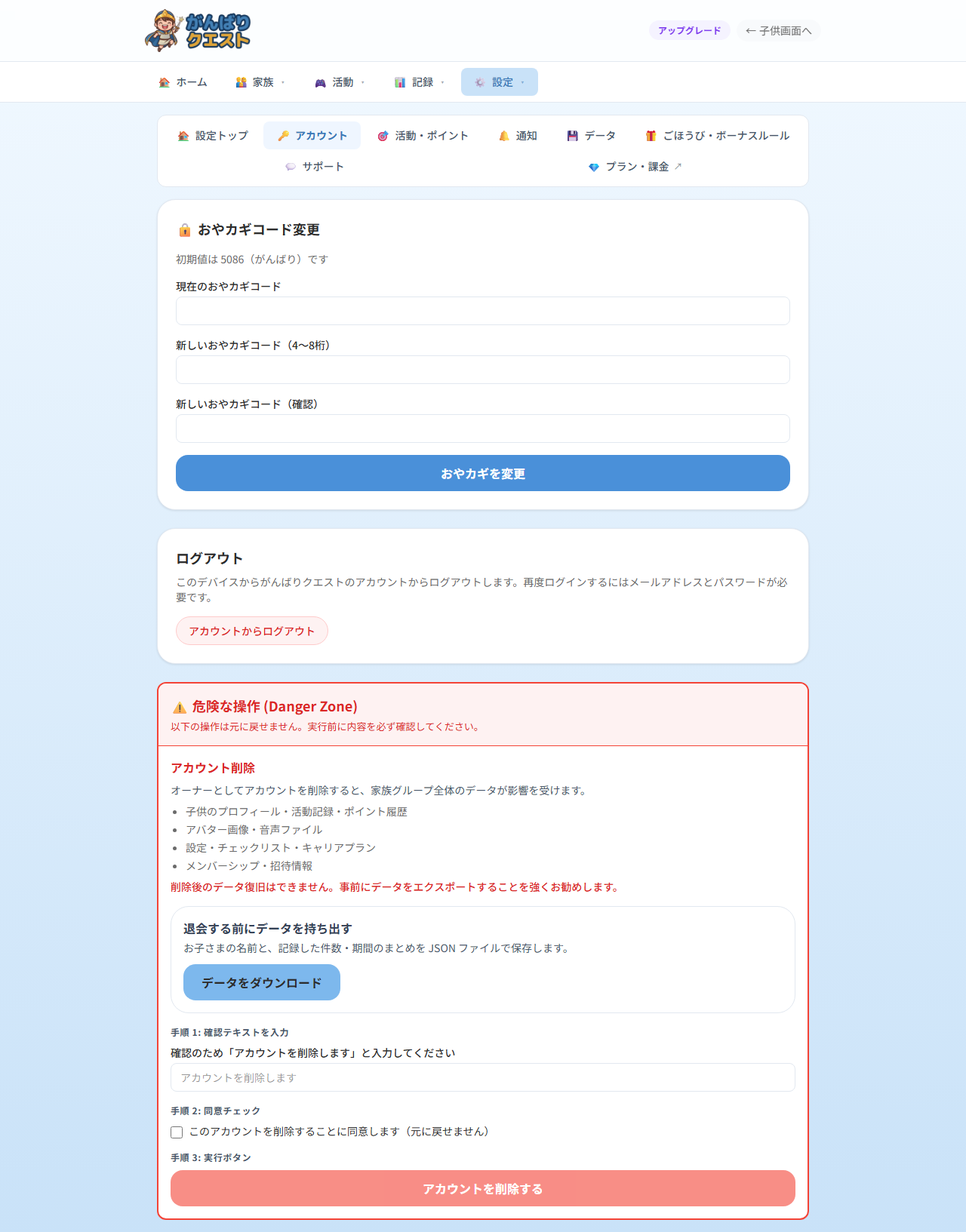
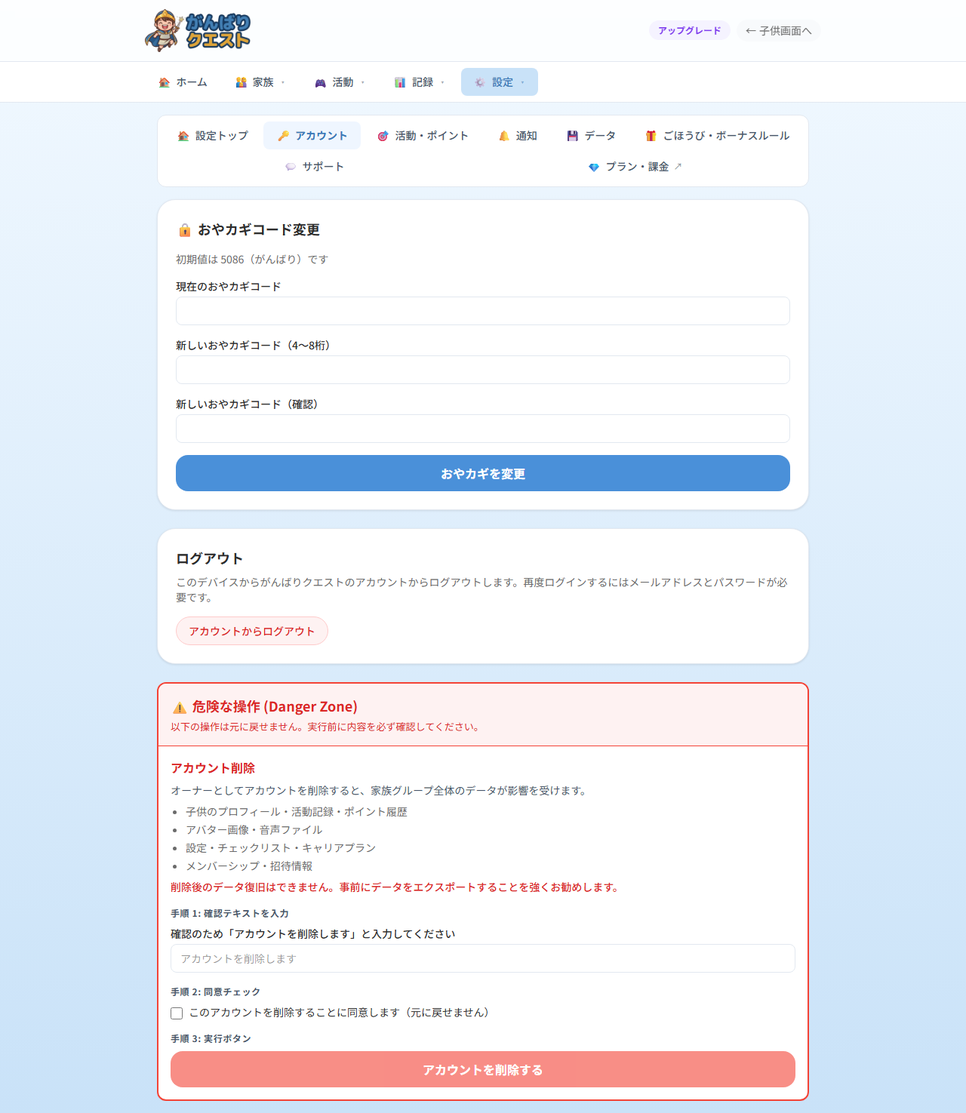
screenshots: PR #4475 (2026-08-08)

diff --git a/pr-4475/admin-settings-account-mobile.dom.html b/pr-4475/admin-settings-account-mobile.dom.html
@@ -5244,7 +5244,7 @@ h1, h2, h3, h4 {
  .svelte-pwdxgn{}</style>
 	</head>
 	<body data-sveltekit-preload-data="hover">
-		<div style="display: contents"><!--[--><!--[0--><!--[--><!--[-1--><!--]--><!----> <!--[-1--><!--]--><!----> <!--[-1--><!--]--><!----> <!--[0--><!--[--><div data-theme="admin" data-plan="free" class="admin-shell svelte-wncecx"><header class="admin-header sticky top-0 z-30 backdrop-blur border-b border-[var(--color-border-default)] px-4 py-3 svelte-wncecx"><div class="max-w-4xl mx-auto flex items-center justify-between svelte-wncecx"><div class="flex items-center gap-2 svelte-wncecx"><a href="/admin" class="flex items-center svelte-wncecx"><span class="hidden md:inline-flex svelte-wncecx"><span class="logo-wrapper  svelte-1n7r250"><img src="/logo-compact.png" alt="がんばりクエスト" width="140" height="57" class="logo svelte-1n7r250"> <!--[-1--><!--]--></span><!----></span> <span class="inline-flex md:hidden svelte-wncecx"><span class="logo-wrapper  svelte-1n7r250"><img src="/icon-character.png" alt="がんばりクエスト" width="44" height="44" class="logo svelte-1n7r250"> <!--[-1--><!--]--></span><!----></span></a> <!--[-1--><!--]--></div> <div class="flex items-center gap-2 svelte-wncecx"><!--[-1--><!--]--> <!--[0--><a href="/admin/subscription" class="upgrade-btn svelte-wncecx" data-tutorial="upgrade-btn">アップグレード</a><!--]--> <!--[-1--><!--]--> <a href="/switch" class="header-switch-link svelte-wncecx" data-tutorial="switch-to-child"><span aria-hidden="true" class="svelte-wncecx">←</span> 子供画面へ</a></div></div></header> <nav class="hidden md:block bg-[var(--color-surface-card)] border-b border-[var(--color-border-default)] px-4 py-2 svelte-wncecx" aria-label="管理メニュー" data-tutorial="nav-desktop"><div class="max-w-4xl mx-auto flex gap-1 svelte-wncecx"><a href="/admin" class="nav-item  svelte-wncecx"><span aria-hidden="true" class="svelte-wncecx">🏠</span> ホーム</a> <!--[--><div class="relative svelte-wncecx" role="none"><button type="button" class="nav-item  svelte-wncecx" aria-expanded="false" aria-haspopup="true"><span aria-hidden="true" class="svelte-wncecx">👨👩👧</span> 家族 <span class="text-[10px] ml-0.5 opacity-50 svelte-wncecx" aria-hidden="true">▾</span></button> <!--[-1--><!--]--></div><div class="relative svelte-wncecx" role="none"><button type="button" class="nav-item  svelte-wncecx" aria-expanded="false" aria-haspopup="true"><span aria-hidden="true" class="svelte-wncecx">🎮</span> 活動 <span class="text-[10px] ml-0.5 opacity-50 svelte-wncecx" aria-hidden="true">▾</span></button> <!--[-1--><!--]--></div><div class="relative svelte-wncecx" role="none"><button type="button" class="nav-item  svelte-wncecx" aria-expanded="false" aria-haspopup="true"><span aria-hidden="true" class="svelte-wncecx">📊</span> 記録 <span class="text-[10px] ml-0.5 opacity-50 svelte-wncecx" aria-hidden="true">▾</span></button> <!--[-1--><!--]--></div><div class="relative svelte-wncecx" role="none"><button type="button" class="nav-item nav-item--active svelte-wncecx" aria-expanded="false" aria-haspopup="true"><span aria-hidden="true" class="svelte-wncecx">⚙</span> 設定 <span class="text-[10px] ml-0.5 opacity-50 svelte-wncecx" aria-hidden="true">▾</span></button> <!--[-1--><!--]--></div><!--]--></div></nav> <main class="max-w-4xl mx-auto p-4 pb-24 md:pb-4 svelte-wncecx"><!--[-1--><!--[-1--><!--]--> <!--[-1--><!--]--> <!--[-1--><!--]--> <!--[0--><!--[--><nav class="settings-subnav svelte-2jrpmj" aria-label="設定サブナビゲーション" data-testid="settings-subnav"><ul class="settings-subnav__list svelte-2jrpmj"><!--[--><li class="settings-subnav__item svelte-2jrpmj"><a href="/admin/settings" class="settings-subnav__link svelte-2jrpmj" data-testid="settings-subnav-設定トップ"><span aria-hidden="true" class="svelte-2jrpmj">🏠</span> <span class="settings-subnav__label svelte-2jrpmj">設定トップ</span> <!--[-1--><!--]--></a></li><li class="settings-subnav__item svelte-2jrpmj"><a href="/admin/settings/account" class="settings-subnav__link svelte-2jrpmj settings-subnav__link--active" aria-current="page" data-testid="settings-subnav-アカウント"><span aria-hidden="true" class="svelte-2jrpmj">🔑</span> <span class="settings-subnav__label svelte-2jrpmj">アカウント</span> <!--[-1--><!--]--></a></li><li class="settings-subnav__item svelte-2jrpmj"><a href="/admin/settings/activities" class="settings-subnav__link svelte-2jrpmj" data-testid="settings-subnav-活動・ポイント"><span aria-hidden="true" class="svelte-2jrpmj">🎯</span> <span class="settings-subnav__label svelte-2jrpmj">活動・ポイント</span> <!--[-1--><!--]--></a></li><li class="settings-subnav__item svelte-2jrpmj"><a href="/admin/settings/notifications" class="settings-subnav__link svelte-2jrpmj" data-testid="settings-subnav-通知"><span aria-hidden="true" class="svelte-2jrpmj">🔔</span> <span class="settings-subnav__label svelte-2jrpmj">通知</span> <!--[-1--><!--]--></a></li><li class="settings-subnav__item svelte-2jrpmj"><a href="/admin/settings/data" class="settings-subnav__link svelte-2jrpmj" data-testid="settings-subnav-データ"><span aria-hidden="true" class="svelte-2jrpmj">💾</span> <span class="settings-subnav__label svelte-2jrpmj">データ</span> <!--[-1--><!--]--></a></li><li class="settings-subnav__item svelte-2jrpmj"><a href="/admin/settings/rules" class="settings-subnav__link svelte-2jrpmj" data-testid="settings-subnav-ごほうび・ボーナスルール"><span aria-hidden="true" class="svelte-2jrpmj">🎁</span> <span class="settings-subnav__label svelte-2jrpmj">ごほうび・ボーナスルール</span> <!--[-1--><!--]--></a></li><li class="settings-subnav__item svelte-2jrpmj"><a href="/admin/settings/support" class="settings-subnav__link svelte-2jrpmj" data-testid="settings-subnav-サポート"><span aria-hidden="true" class="svelte-2jrpmj">💬</span> <span class="settings-subnav__label svelte-2jrpmj">サポート</span> <!--[-1--><!--]--></a></li><li class="settings-subnav__item svelte-2jrpmj"><a href="/admin/subscription" class="settings-subnav__link svelte-2jrpmj" data-testid="settings-subnav-プラン・課金"><span aria-hidden="true" class="svelte-2jrpmj">💎</span> <span class="settings-subnav__label svelte-2jrpmj">プラン・課金</span> <!--[0--><span class="settings-subnav__external svelte-2jrpmj" aria-label="別ページ">↗</span><!--]--></a></li><!--]--></ul></nav> <div class="settings-content svelte-2jrpmj"><!--[--><div class="space-y-6 svelte-vx7jxi"><!--[-1--><!--]--> <section class="rounded-[var(--card-radius)] overflow-hidden bg-[var(--card-bg)] shadow-[var(--card-shadow)] border border-[var(--color-border-default)] " data-tutorial="pin-settings"><!--[-1--><!--]--> <div class="p-6"><h3 class="text-lg font-bold text-[var(--color-text)] mb-4 svelte-vx7jxi">🔒 おやカギコード変更</h3> <p class="text-sm text-[var(--color-text-muted)] mb-4 svelte-vx7jxi">初期値は 5086（がんばり）です</p> <!--[-1--><!--]--> <!--[-1--><!--]--> <form method="POST" action="?/changePin" class="flex flex-col gap-4 svelte-vx7jxi"><div class="flex flex-col gap-1  svelte-pwdxgn"><label for="currentPin" class="text-sm font-medium text-[var(--color-text)] svelte-pwdxgn">現在のおやカギコード</label> <!--[-1--><div class="relative svelte-pwdxgn"><input type="password" id="currentPin" class="w-full px-3 py-2 border rounded-[var(--input-radius)] bg-[var(--input-bg)] text-sm border-[var(--input-border)] focus:border-[var(--input-border-focus)] focus:outline-none focus:ring-2 focus:ring-opacity-30 transition-colors  svelte-pwdxgn" name="currentPin" required="" style=""> <!--[-1--><!--]--></div><!--]--> <!--[-1--><!--]--></div><!----> <div class="flex flex-col gap-1  svelte-pwdxgn"><label for="newPin" class="text-sm font-medium text-[var(--color-text)] svelte-pwdxgn">新しいおやカギコード（4〜8桁）</label> <!--[-1--><div class="relative svelte-pwdxgn"><input type="password" id="newPin" class="w-full px-3 py-2 border rounded-[var(--input-radius)] bg-[var(--input-bg)] text-sm border-[var(--input-border)] focus:border-[var(--input-border-focus)] focus:outline-none focus:ring-2 focus:ring-opacity-30 transition-colors  svelte-pwdxgn" name="newPin" required="" style=""> <!--[-1--><!--]--></div><!--]--> <!--[-1--><!--]--></div><!----> <div class="flex flex-col gap-1  svelte-pwdxgn"><label for="confirmPin" class="text-sm font-medium text-[var(--color-text)] svelte-pwdxgn">新しいおやカギコード（確認）</label> <!--[-1--><div class="relative svelte-pwdxgn"><input type="password" id="confirmPin" class="w-full px-3 py-2 border rounded-[var(--input-radius)] bg-[var(--input-bg)] text-sm border-[var(--input-border)] focus:border-[var(--input-border-focus)] focus:outline-none focus:ring-2 focus:ring-opacity-30 transition-colors  svelte-pwdxgn" name="confirmPin" required="" style=""> <!--[-1--><!--]--></div><!--]--> <!--[-1--><!--]--></div><!----> <!--[-1--><button class="tap-target inline-flex items-center justify-center gap-2 font-bold transition-all disabled:opacity-60 disabled:cursor-not-allowed bg-[var(--theme-primary)] text-white hover:brightness-90 active:brightness-80 px-6 py-3 text-md rounded-[var(--radius-md)] min-h-12 w-full" aria-busy="false" type="submit"><!--[-1--><!--]--><!---->おやカギを変更<!----></button><!--]--><!----></form><!----></div> <!--[-1--><!--]--></section><!----> <!--[0--><section class="rounded-[var(--card-radius)] overflow-hidden bg-[var(--card-bg)] shadow-[var(--card-shadow)] border border-[var(--color-border-default)] "><!--[-1--><!--]--> <div class="p-6"><h3 class="text-lg font-bold text-[var(--color-text)] mb-2 svelte-vx7jxi">ログアウト</h3> <p class="text-sm text-[var(--color-text-muted)] mb-4 svelte-vx7jxi">このデバイスからがんばりクエストのアカウントからログアウトします。再度ログインするにはメールアドレスとパスワードが必要です。</p> <a href="/auth/signout" class="inline-block px-4 py-2 bg-[var(--color-feedback-error-bg)] text-[var(--color-feedback-error-text)] text-sm font-medium rounded-lg border border-[var(--color-feedback-error-border)] hover:bg-[var(--color-feedback-error-bg-strong)] transition-colors no-underline svelte-vx7jxi" data-testid="account-logout-link">アカウントからログアウト</a><!----></div> <!--[-1--><!--]--></section><!----><!--]--> <!--[0--><section class="danger-zone svelte-vx7jxi" data-testid="account-danger-zone"><header class="danger-zone__header svelte-vx7jxi"><h3 class="danger-zone__title svelte-vx7jxi">⚠ 危険な操作 (Danger Zone)</h3> <p class="danger-zone__desc svelte-vx7jxi">以下の操作は元に戻せません。実行前に内容を必ず確認してください。</p></header> <div class="danger-zone__body svelte-vx7jxi"><h4 class="text-base font-bold text-[var(--color-feedback-error-text)] mb-2 svelte-vx7jxi">アカウント削除</h4> <!--[0--><div class="text-sm text-[var(--color-text-secondary)] space-y-2 mb-4 svelte-vx7jxi"><p class="svelte-vx7jxi">オーナーとしてアカウントを削除すると、家族グループ全体のデータが影響を受けます。</p> <ul class="list-disc ml-5 text-[var(--color-text-muted)] space-y-1 svelte-vx7jxi"><li class="svelte-vx7jxi">子供のプロフィール・活動記録・ポイント履歴</li> <li class="svelte-vx7jxi">アバター画像・音声ファイル</li> <li class="svelte-vx7jxi">設定・チェックリスト・キャリアプラン</li> <li class="svelte-vx7jxi">メンバーシップ・招待情報</li></ul> <p class="text-[var(--color-feedback-error-text)] font-medium svelte-vx7jxi">削除後のデータ復旧はできません。事前にデータをエクスポートすることを強くお勧めします。</p></div><!--]--> <!--[0--><div class="mb-4 rounded-lg border border-[var(--color-border-default)] bg-[var(--color-surface-card)] p-4" data-testid="account-deletion-export"><h4 class="mb-1 text-base font-bold text-[var(--color-text-primary)]">退会する前にデータを持ち出す</h4> <p class="mb-3 text-sm text-[var(--color-text-secondary)]" data-testid="account-deletion-export-scope">お子さまの名前と、記録した件数・期間のまとめを JSON ファイルで保存します。</p> <!--[-1--><!--]--> <!--[-1--><!--]--> <!--[-1--><button class="tap-target inline-flex items-center justify-center gap-2 font-bold transition-all disabled:opacity-60 disabled:cursor-not-allowed bg-[var(--theme-secondary)] text-[var(--color-text)] hover:brightness-95 active:brightness-90 px-6 py-3 text-md rounded-[var(--radius-md)] min-h-12 " aria-busy="false" type="button" data-testid="account-deletion-export-button"><!--[-1--><!--]--><!---->データをダウンロード<!----></button><!--]--><!----></div><!----><!--]--> <!--[-1--><!--]--> <!--[-1--><div class="danger-zone__step svelte-vx7jxi"><p class="danger-zone__step-label svelte-vx7jxi">手順 1: 確認テキストを入力</p> <div class="flex flex-col gap-1  svelte-pwdxgn"><label for="deleteConfirm" class="text-sm font-medium text-[var(--color-text)] svelte-pwdxgn">確認のため「アカウントを削除します」と入力してください</label> <!--[-1--><div class="relative svelte-pwdxgn"><input type="text" id="deleteConfirm" value="" class="w-full px-3 py-2 border rounded-[var(--input-radius)] bg-[var(--input-bg)] text-sm border-[var(--input-border)] focus:border-[var(--input-border-focus)] focus:outline-none focus:ring-2 focus:ring-opacity-30 transition-colors  svelte-pwdxgn" placeholder="アカウントを削除します" style=""> <!--[-1--><!--]--></div><!--]--> <!--[-1--><!--]--></div><!----></div> <div class="danger-zone__step svelte-vx7jxi"><p class="danger-zone__step-label svelte-vx7jxi">手順 2: 同意チェック</p> <label class="flex items-start gap-2 cursor-pointer svelte-vx7jxi"><input type="checkbox" class="mt-1 h-4 w-4 rounded border-[var(--color-border-strong)] svelte-vx7jxi" data-testid="account-danger-agree-checkbox" style=""> <span class="text-sm text-[var(--color-text)] svelte-vx7jxi">このアカウントを削除することに同意します（元に戻せません）</span></label></div> <div class="danger-zone__step svelte-vx7jxi"><p class="danger-zone__step-label svelte-vx7jxi">手順 3: 実行ボタン</p> <!--[-1--><button class="tap-target inline-flex items-center justify-center gap-2 font-bold transition-all disabled:opacity-60 disabled:cursor-not-allowed bg-[var(--color-danger)] text-white hover:brightness-90 active:brightness-80 px-6 py-3 text-md rounded-[var(--radius-md)] min-h-12 w-full" disabled="" aria-busy="false" type="button" data-testid="account-danger-execute-button"><!--[-1--><!--]--><!---->アカウントを削除する<!----></button><!--]--><!----></div><!--]--></div></section><!--]--></div><!--]--><!----></div><!--]--><!--]--><!----><!----><!--]--></main> <nav class="md:hidden fixed bottom-0 left-0 right-0 z-30 bg-[var(--color-surface-card)] border-t border-[var(--color-border-default)] safe-area-bottom svelte-wncecx" aria-label="メインナビゲーション" data-tutorial="nav-primary"><!--[-1--><!--]--> <div class="flex justify-around items-center h-16 svelte-wncecx"><a href="/admin" class="mobile-nav-item  svelte-wncecx"><span class="text-xl svelte-wncecx" aria-hidden="true">🏠</span> <span class="text-[10px] font-medium leading-none svelte-wncecx">ホーム</span></a> <!--[--><button type="button" class="mobile-nav-item   svelte-wncecx" aria-expanded="false" aria-haspopup="true"><span class="text-xl svelte-wncecx" aria-hidden="true">👨👩👧</span> <span class="text-[10px] font-medium leading-none svelte-wncecx">家族</span></button><button type="button" class="mobile-nav-item   svelte-wncecx" aria-expanded="false" aria-haspopup="true"><span class="text-xl svelte-wncecx" aria-hidden="true">🎮</span> <span class="text-[10px] font-medium leading-none svelte-wncecx">活動</span></button><button type="button" class="mobile-nav-item   svelte-wncecx" aria-expanded="false" aria-haspopup="true"><span class="text-xl svelte-wncecx" aria-hidden="true">📊</span> <span class="text-[10px] font-medium leading-none svelte-wncecx">記録</span></button><button type="button" class="mobile-nav-item mobile-nav-item--active  svelte-wncecx" aria-expanded="false" aria-haspopup="true"><span class="text-xl svelte-wncecx" aria-hidden="true">⚙</span> <span class="text-[10px] font-medium leading-none svelte-wncecx">設定</span></button><!--]--></div></nav> <!--[0--><!--[--><!--$s1--><!--[-1--><!--]--><!----><!----><!--]--><!----> <!--[--><!--$s2--><!--[-1--><!--]--><!----><!----><!--]--><!----> <!--[--><!--$s3--><!--[-1--><!--]--><!----><!----><!--]--><!----><!----> <!--[-1--><!--]--><!----> <!----><!--]--></div><!----> <!--[--><!--$s4--><!--[-1--><!--]--><!----><!----><!--]--><!----><!----> <!--[-1--><!--]--><!----><!--]--><!--]--><!----> <!--[-1--><!--]--><!--]--><!--]--> <!--[-1--><!--]--><!--]-->
+		<div style="display: contents"><!--[--><!--[0--><!--[--><!--[-1--><!--]--><!----> <!--[-1--><!--]--><!----> <!--[-1--><!--]--><!----> <!--[0--><!--[--><div data-theme="admin" data-plan="free" class="admin-shell svelte-wncecx"><header class="admin-header sticky top-0 z-30 backdrop-blur border-b border-[var(--color-border-default)] px-4 py-3 svelte-wncecx"><div class="max-w-4xl mx-auto flex items-center justify-between svelte-wncecx"><div class="flex items-center gap-2 svelte-wncecx"><a href="/admin" class="flex items-center svelte-wncecx"><span class="hidden md:inline-flex svelte-wncecx"><span class="logo-wrapper  svelte-1n7r250"><img src="/logo-compact.png" alt="がんばりクエスト" width="140" height="57" class="logo svelte-1n7r250"> <!--[-1--><!--]--></span><!----></span> <span class="inline-flex md:hidden svelte-wncecx"><span class="logo-wrapper  svelte-1n7r250"><img src="/icon-character.png" alt="がんばりクエスト" width="44" height="44" class="logo svelte-1n7r250"> <!--[-1--><!--]--></span><!----></span></a> <!--[-1--><!--]--></div> <div class="flex items-center gap-2 svelte-wncecx"><!--[-1--><!--]--> <!--[0--><a href="/admin/subscription" class="upgrade-btn svelte-wncecx" data-tutorial="upgrade-btn">アップグレード</a><!--]--> <!--[-1--><!--]--> <a href="/switch" class="header-switch-link svelte-wncecx" data-tutorial="switch-to-child"><span aria-hidden="true" class="svelte-wncecx">←</span> 子供画面へ</a></div></div></header> <nav class="hidden md:block bg-[var(--color-surface-card)] border-b border-[var(--color-border-default)] px-4 py-2 svelte-wncecx" aria-label="管理メニュー" data-tutorial="nav-desktop"><div class="max-w-4xl mx-auto flex gap-1 svelte-wncecx"><a href="/admin" class="nav-item  svelte-wncecx"><span aria-hidden="true" class="svelte-wncecx">🏠</span> ホーム</a> <!--[--><div class="relative svelte-wncecx" role="none"><button type="button" class="nav-item  svelte-wncecx" aria-expanded="false" aria-haspopup="true"><span aria-hidden="true" class="svelte-wncecx">👨👩👧</span> 家族 <span class="text-[10px] ml-0.5 opacity-50 svelte-wncecx" aria-hidden="true">▾</span></button> <!--[-1--><!--]--></div><div class="relative svelte-wncecx" role="none"><button type="button" class="nav-item  svelte-wncecx" aria-expanded="false" aria-haspopup="true"><span aria-hidden="true" class="svelte-wncecx">🎮</span> 活動 <span class="text-[10px] ml-0.5 opacity-50 svelte-wncecx" aria-hidden="true">▾</span></button> <!--[-1--><!--]--></div><div class="relative svelte-wncecx" role="none"><button type="button" class="nav-item  svelte-wncecx" aria-expanded="false" aria-haspopup="true"><span aria-hidden="true" class="svelte-wncecx">📊</span> 記録 <span class="text-[10px] ml-0.5 opacity-50 svelte-wncecx" aria-hidden="true">▾</span></button> <!--[-1--><!--]--></div><div class="relative svelte-wncecx" role="none"><button type="button" class="nav-item nav-item--active svelte-wncecx" aria-expanded="false" aria-haspopup="true"><span aria-hidden="true" class="svelte-wncecx">⚙</span> 設定 <span class="text-[10px] ml-0.5 opacity-50 svelte-wncecx" aria-hidden="true">▾</span></button> <!--[-1--><!--]--></div><!--]--></div></nav> <main class="max-w-4xl mx-auto p-4 pb-24 md:pb-4 svelte-wncecx"><!--[-1--><!--[-1--><!--]--> <!--[-1--><!--]--> <!--[-1--><!--]--> <!--[0--><!--[--><nav class="settings-subnav svelte-2jrpmj" aria-label="設定サブナビゲーション" data-testid="settings-subnav"><ul class="settings-subnav__list svelte-2jrpmj"><!--[--><li class="settings-subnav__item svelte-2jrpmj"><a href="/admin/settings" class="settings-subnav__link svelte-2jrpmj" data-testid="settings-subnav-設定トップ"><span aria-hidden="true" class="svelte-2jrpmj">🏠</span> <span class="settings-subnav__label svelte-2jrpmj">設定トップ</span> <!--[-1--><!--]--></a></li><li class="settings-subnav__item svelte-2jrpmj"><a href="/admin/settings/account" class="settings-subnav__link svelte-2jrpmj settings-subnav__link--active" aria-current="page" data-testid="settings-subnav-アカウント"><span aria-hidden="true" class="svelte-2jrpmj">🔑</span> <span class="settings-subnav__label svelte-2jrpmj">アカウント</span> <!--[-1--><!--]--></a></li><li class="settings-subnav__item svelte-2jrpmj"><a href="/admin/settings/activities" class="settings-subnav__link svelte-2jrpmj" data-testid="settings-subnav-活動・ポイント"><span aria-hidden="true" class="svelte-2jrpmj">🎯</span> <span class="settings-subnav__label svelte-2jrpmj">活動・ポイント</span> <!--[-1--><!--]--></a></li><li class="settings-subnav__item svelte-2jrpmj"><a href="/admin/settings/notifications" class="settings-subnav__link svelte-2jrpmj" data-testid="settings-subnav-通知"><span aria-hidden="true" class="svelte-2jrpmj">🔔</span> <span class="settings-subnav__label svelte-2jrpmj">通知</span> <!--[-1--><!--]--></a></li><li class="settings-subnav__item svelte-2jrpmj"><a href="/admin/settings/data" class="settings-subnav__link svelte-2jrpmj" data-testid="settings-subnav-データ"><span aria-hidden="true" class="svelte-2jrpmj">💾</span> <span class="settings-subnav__label svelte-2jrpmj">データ</span> <!--[-1--><!--]--></a></li><li class="settings-subnav__item svelte-2jrpmj"><a href="/admin/settings/rules" class="settings-subnav__link svelte-2jrpmj" data-testid="settings-subnav-ごほうび・ボーナスルール"><span aria-hidden="true" class="svelte-2jrpmj">🎁</span> <span class="settings-subnav__label svelte-2jrpmj">ごほうび・ボーナスルール</span> <!--[-1--><!--]--></a></li><li class="settings-subnav__item svelte-2jrpmj"><a href="/admin/settings/support" class="settings-subnav__link svelte-2jrpmj" data-testid="settings-subnav-サポート"><span aria-hidden="true" class="svelte-2jrpmj">💬</span> <span class="settings-subnav__label svelte-2jrpmj">サポート</span> <!--[-1--><!--]--></a></li><li class="settings-subnav__item svelte-2jrpmj"><a href="/admin/subscription" class="settings-subnav__link svelte-2jrpmj" data-testid="settings-subnav-プラン・課金"><span aria-hidden="true" class="svelte-2jrpmj">💎</span> <span class="settings-subnav__label svelte-2jrpmj">プラン・課金</span> <!--[0--><span class="settings-subnav__external svelte-2jrpmj" aria-label="別ページ">↗</span><!--]--></a></li><!--]--></ul></nav> <div class="settings-content svelte-2jrpmj"><!--[--><div class="space-y-6 svelte-vx7jxi"><!--[-1--><!--]--> <section class="rounded-[var(--card-radius)] overflow-hidden bg-[var(--card-bg)] shadow-[var(--card-shadow)] border border-[var(--color-border-default)] " data-tutorial="pin-settings"><!--[-1--><!--]--> <div class="p-6"><h3 class="text-lg font-bold text-[var(--color-text)] mb-4 svelte-vx7jxi">🔒 おやカギコード変更</h3> <p class="text-sm text-[var(--color-text-muted)] mb-4 svelte-vx7jxi">初期値は 5086（がんばり）です</p> <!--[-1--><!--]--> <!--[-1--><!--]--> <form method="POST" action="?/changePin" class="flex flex-col gap-4 svelte-vx7jxi"><div class="flex flex-col gap-1  svelte-pwdxgn"><label for="currentPin" class="text-sm font-medium text-[var(--color-text)] svelte-pwdxgn">現在のおやカギコード</label> <!--[-1--><div class="relative svelte-pwdxgn"><input type="password" id="currentPin" class="w-full px-3 py-2 border rounded-[var(--input-radius)] bg-[var(--input-bg)] text-sm border-[var(--input-border)] focus:border-[var(--input-border-focus)] focus:outline-none focus:ring-2 focus:ring-opacity-30 transition-colors  svelte-pwdxgn" name="currentPin" required="" style=""> <!--[-1--><!--]--></div><!--]--> <!--[-1--><!--]--></div><!----> <div class="flex flex-col gap-1  svelte-pwdxgn"><label for="newPin" class="text-sm font-medium text-[var(--color-text)] svelte-pwdxgn">新しいおやカギコード（4〜8桁）</label> <!--[-1--><div class="relative svelte-pwdxgn"><input type="password" id="newPin" class="w-full px-3 py-2 border rounded-[var(--input-radius)] bg-[var(--input-bg)] text-sm border-[var(--input-border)] focus:border-[var(--input-border-focus)] focus:outline-none focus:ring-2 focus:ring-opacity-30 transition-colors  svelte-pwdxgn" name="newPin" required="" style=""> <!--[-1--><!--]--></div><!--]--> <!--[-1--><!--]--></div><!----> <div class="flex flex-col gap-1  svelte-pwdxgn"><label for="confirmPin" class="text-sm font-medium text-[var(--color-text)] svelte-pwdxgn">新しいおやカギコード（確認）</label> <!--[-1--><div class="relative svelte-pwdxgn"><input type="password" id="confirmPin" class="w-full px-3 py-2 border rounded-[var(--input-radius)] bg-[var(--input-bg)] text-sm border-[var(--input-border)] focus:border-[var(--input-border-focus)] focus:outline-none focus:ring-2 focus:ring-opacity-30 transition-colors  svelte-pwdxgn" name="confirmPin" required="" style=""> <!--[-1--><!--]--></div><!--]--> <!--[-1--><!--]--></div><!----> <!--[-1--><button class="tap-target inline-flex items-center justify-center gap-2 font-bold transition-all disabled:opacity-60 disabled:cursor-not-allowed bg-[var(--theme-primary)] text-white hover:brightness-90 active:brightness-80 px-6 py-3 text-md rounded-[var(--radius-md)] min-h-12 w-full" aria-busy="false" type="submit"><!--[-1--><!--]--><!---->おやカギを変更<!----></button><!--]--><!----></form><!----></div> <!--[-1--><!--]--></section><!----> <!--[0--><section class="rounded-[var(--card-radius)] overflow-hidden bg-[var(--card-bg)] shadow-[var(--card-shadow)] border border-[var(--color-border-default)] "><!--[-1--><!--]--> <div class="p-6"><h3 class="text-lg font-bold text-[var(--color-text)] mb-2 svelte-vx7jxi">ログアウト</h3> <p class="text-sm text-[var(--color-text-muted)] mb-4 svelte-vx7jxi">このデバイスからがんばりクエストのアカウントからログアウトします。再度ログインするにはメールアドレスとパスワードが必要です。</p> <a href="/auth/signout" class="inline-block px-4 py-2 bg-[var(--color-feedback-error-bg)] text-[var(--color-feedback-error-text)] text-sm font-medium rounded-lg border border-[var(--color-feedback-error-border)] hover:bg-[var(--color-feedback-error-bg-strong)] transition-colors no-underline svelte-vx7jxi" data-testid="account-logout-link">アカウントからログアウト</a><!----></div> <!--[-1--><!--]--></section><!----><!--]--> <!--[0--><section class="danger-zone svelte-vx7jxi" data-testid="account-danger-zone"><header class="danger-zone__header svelte-vx7jxi"><h3 class="danger-zone__title svelte-vx7jxi">⚠ 危険な操作 (Danger Zone)</h3> <p class="danger-zone__desc svelte-vx7jxi">以下の操作は元に戻せません。実行前に内容を必ず確認してください。</p></header> <div class="danger-zone__body svelte-vx7jxi"><h4 class="text-base font-bold text-[var(--color-feedback-error-text)] mb-2 svelte-vx7jxi">アカウント削除</h4> <!--[0--><div class="text-sm text-[var(--color-text-secondary)] space-y-2 mb-4 svelte-vx7jxi"><p class="svelte-vx7jxi">オーナーとしてアカウントを削除すると、家族グループ全体のデータが影響を受けます。</p> <ul class="list-disc ml-5 text-[var(--color-text-muted)] space-y-1 svelte-vx7jxi"><li class="svelte-vx7jxi">子供のプロフィール・活動記録・ポイント履歴</li> <li class="svelte-vx7jxi">アバター画像・音声ファイル</li> <li class="svelte-vx7jxi">設定・チェックリスト・キャリアプラン</li> <li class="svelte-vx7jxi">メンバーシップ・招待情報</li></ul> <p class="text-[var(--color-feedback-error-text)] font-medium svelte-vx7jxi">削除後のデータ復旧はできません。事前にデータをエクスポートすることを強くお勧めします。</p></div><!--]--> <!--[-1--><!--]--> <!--[-1--><div class="danger-zone__step svelte-vx7jxi"><p class="danger-zone__step-label svelte-vx7jxi">手順 1: 確認テキストを入力</p> <div class="flex flex-col gap-1  svelte-pwdxgn"><label for="deleteConfirm" class="text-sm font-medium text-[var(--color-text)] svelte-pwdxgn">確認のため「アカウントを削除します」と入力してください</label> <!--[-1--><div class="relative svelte-pwdxgn"><input type="text" id="deleteConfirm" value="" class="w-full px-3 py-2 border rounded-[var(--input-radius)] bg-[var(--input-bg)] text-sm border-[var(--input-border)] focus:border-[var(--input-border-focus)] focus:outline-none focus:ring-2 focus:ring-opacity-30 transition-colors  svelte-pwdxgn" placeholder="アカウントを削除します" style=""> <!--[-1--><!--]--></div><!--]--> <!--[-1--><!--]--></div><!----></div> <div class="danger-zone__step svelte-vx7jxi"><p class="danger-zone__step-label svelte-vx7jxi">手順 2: 同意チェック</p> <label class="flex items-start gap-2 cursor-pointer svelte-vx7jxi"><input type="checkbox" class="mt-1 h-4 w-4 rounded border-[var(--color-border-strong)] svelte-vx7jxi" data-testid="account-danger-agree-checkbox" style=""> <span class="text-sm text-[var(--color-text)] svelte-vx7jxi">このアカウントを削除することに同意します（元に戻せません）</span></label></div> <div class="danger-zone__step svelte-vx7jxi"><p class="danger-zone__step-label svelte-vx7jxi">手順 3: 実行ボタン</p> <!--[-1--><button class="tap-target inline-flex items-center justify-center gap-2 font-bold transition-all disabled:opacity-60 disabled:cursor-not-allowed bg-[var(--color-danger)] text-white hover:brightness-90 active:brightness-80 px-6 py-3 text-md rounded-[var(--radius-md)] min-h-12 w-full" disabled="" aria-busy="false" type="button" data-testid="account-danger-execute-button"><!--[-1--><!--]--><!---->アカウントを削除する<!----></button><!--]--><!----></div><!--]--></div></section><!--]--></div><!--]--><!----></div><!--]--><!--]--><!----><!----><!--]--></main> <nav class="md:hidden fixed bottom-0 left-0 right-0 z-30 bg-[var(--color-surface-card)] border-t border-[var(--color-border-default)] safe-area-bottom svelte-wncecx" aria-label="メインナビゲーション" data-tutorial="nav-primary"><!--[-1--><!--]--> <div class="flex justify-around items-center h-16 svelte-wncecx"><a href="/admin" class="mobile-nav-item  svelte-wncecx"><span class="text-xl svelte-wncecx" aria-hidden="true">🏠</span> <span class="text-[10px] font-medium leading-none svelte-wncecx">ホーム</span></a> <!--[--><button type="button" class="mobile-nav-item   svelte-wncecx" aria-expanded="false" aria-haspopup="true"><span class="text-xl svelte-wncecx" aria-hidden="true">👨👩👧</span> <span class="text-[10px] font-medium leading-none svelte-wncecx">家族</span></button><button type="button" class="mobile-nav-item   svelte-wncecx" aria-expanded="false" aria-haspopup="true"><span class="text-xl svelte-wncecx" aria-hidden="true">🎮</span> <span class="text-[10px] font-medium leading-none svelte-wncecx">活動</span></button><button type="button" class="mobile-nav-item   svelte-wncecx" aria-expanded="false" aria-haspopup="true"><span class="text-xl svelte-wncecx" aria-hidden="true">📊</span> <span class="text-[10px] font-medium leading-none svelte-wncecx">記録</span></button><button type="button" class="mobile-nav-item mobile-nav-item--active  svelte-wncecx" aria-expanded="false" aria-haspopup="true"><span class="text-xl svelte-wncecx" aria-hidden="true">⚙</span> <span class="text-[10px] font-medium leading-none svelte-wncecx">設定</span></button><!--]--></div></nav> <!--[0--><!--[--><!--$s1--><!--[-1--><!--]--><!----><!----><!--]--><!----> <!--[--><!--$s2--><!--[-1--><!--]--><!----><!----><!--]--><!----> <!--[--><!--$s3--><!--[-1--><!--]--><!----><!----><!--]--><!----><!----> <!--[-1--><!--]--><!----> <!----><!--]--></div><!----> <!--[--><!--$s4--><!--[-1--><!--]--><!----><!----><!--]--><!----><!----> <!--[-1--><!--]--><!----><!--]--><!--]--><!----> <!--[-1--><!--]--><!--]--><!--]--> <!--[-1--><!--]--><!--]-->
 			
 			<script>
 				{
@@ -5261,7 +5261,7 @@ h1, h2, h3, h4 {
 					]).then(([kit, app]) => {
 						kit.start(app, element, {
 							node_ids: [0, 4, 5, 35],
-							data: [{type:"data",data:{role:"owner",requestId:"da009b3c-39d1-46e5-93e6-4170f97b0eb6",isDemo:false},uses:{}},{type:"data",data:{pointSettings:{mode:"point",currency:"JPY",rate:1},authMode:"cognito",inviteAcceptError:null,pinGateActive:false,tenantStatus:"active",isPremium:false,planTier:"free",tutorialStarted:false,userRole:"owner",trialStatus:{isTrialActive:false,daysRemaining:0,trialUsed:false,trialEndDate:null},trialJustExpired:false,archivedSummary:{archivedChildCount:0,hasArchivedResources:false},debugPlanSummary:null,gracePeriodStatus:{isSoftDeleted:false,softDeletedAt:null,gracePeriodDays:0,physicalDeletionDate:null,daysRemaining:0,isExpired:false,planTier:null,metadataIncomplete:false},setupOnboarding:null,runtimeMode:"local-debug",stripeEnabled:false},uses:{search_params:["from"]}},null,{type:"data",data:{},uses:{}}],
+							data: [{type:"data",data:{role:"owner",requestId:"9df8a872-984a-4053-9fda-1aa15789079c",isDemo:false},uses:{}},{type:"data",data:{pointSettings:{mode:"point",currency:"JPY",rate:1},authMode:"cognito",inviteAcceptError:null,pinGateActive:false,tenantStatus:"active",isPremium:false,planTier:"free",tutorialStarted:false,userRole:"owner",trialStatus:{isTrialActive:false,daysRemaining:0,trialUsed:false,trialEndDate:null},trialJustExpired:false,archivedSummary:{archivedChildCount:0,hasArchivedResources:false},debugPlanSummary:null,gracePeriodStatus:{isSoftDeleted:false,softDeletedAt:null,gracePeriodDays:0,physicalDeletionDate:null,daysRemaining:0,isExpired:false,planTier:null,metadataIncomplete:false},setupOnboarding:null,runtimeMode:"local-debug",stripeEnabled:false},uses:{search_params:["from"]}},null,{type:"data",data:{},uses:{}}],
 							form: null,
 							error: null
 						});
